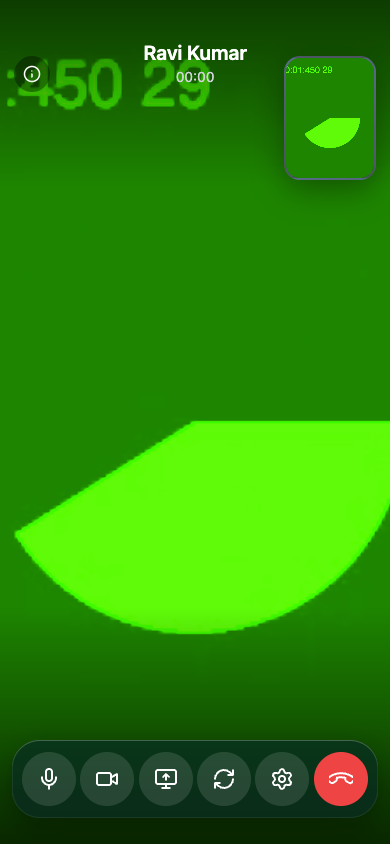
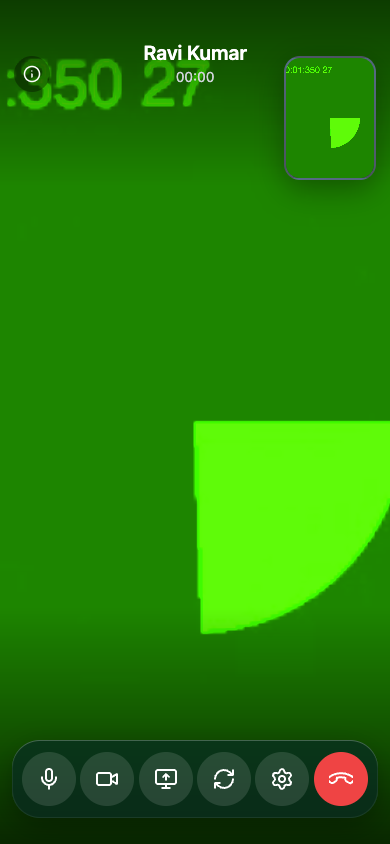
P2P Talk 261001.5: Mac app drops the unused server permission; card counter script; refreshed call screenshots

diff --git a/native/scripts/make-mac-project.rb b/native/scripts/make-mac-project.rb
@@ -31,7 +31,7 @@ settings = {
   'PRODUCT_MODULE_NAME' => 'P2PTalk',
   'PRODUCT_BUNDLE_IDENTIFIER' => 'com.vilnek.p2p',
   'MARKETING_VERSION' => '26.10.1',
-  'CURRENT_PROJECT_VERSION' => '261001.4',
+  'CURRENT_PROJECT_VERSION' => '261001.5',
   'INFOPLIST_FILE' => 'P2PTalk/Info.plist',
   'GENERATE_INFOPLIST_FILE' => 'NO',
   'CODE_SIGN_ENTITLEMENTS' => 'P2PTalk/P2PTalk.entitlements',
